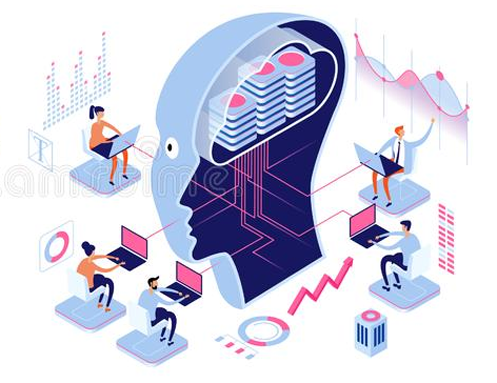
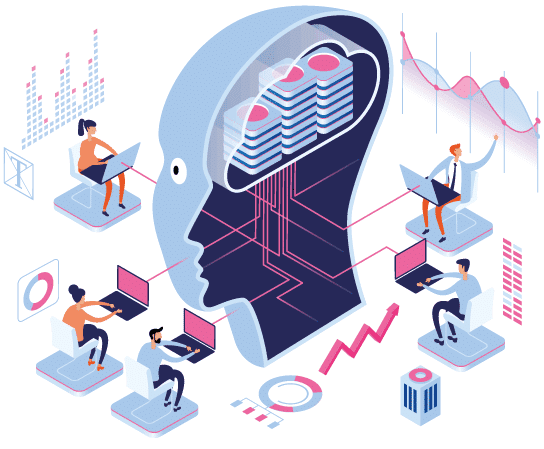
change images

diff --git a/index.html b/index.html
@@ -313,7 +313,7 @@
             <div class="row">
               <div class="col-md-6">
                 <div class="features-img">
-                  <img src="img/others/feature-img4.png" class="img-fluid" alt="post" />
+                  <img src="img/others/feature-img4.jpg" class="img-fluid" alt="post" />
                 </div>
               </div>
               <div class="col-md-6">
